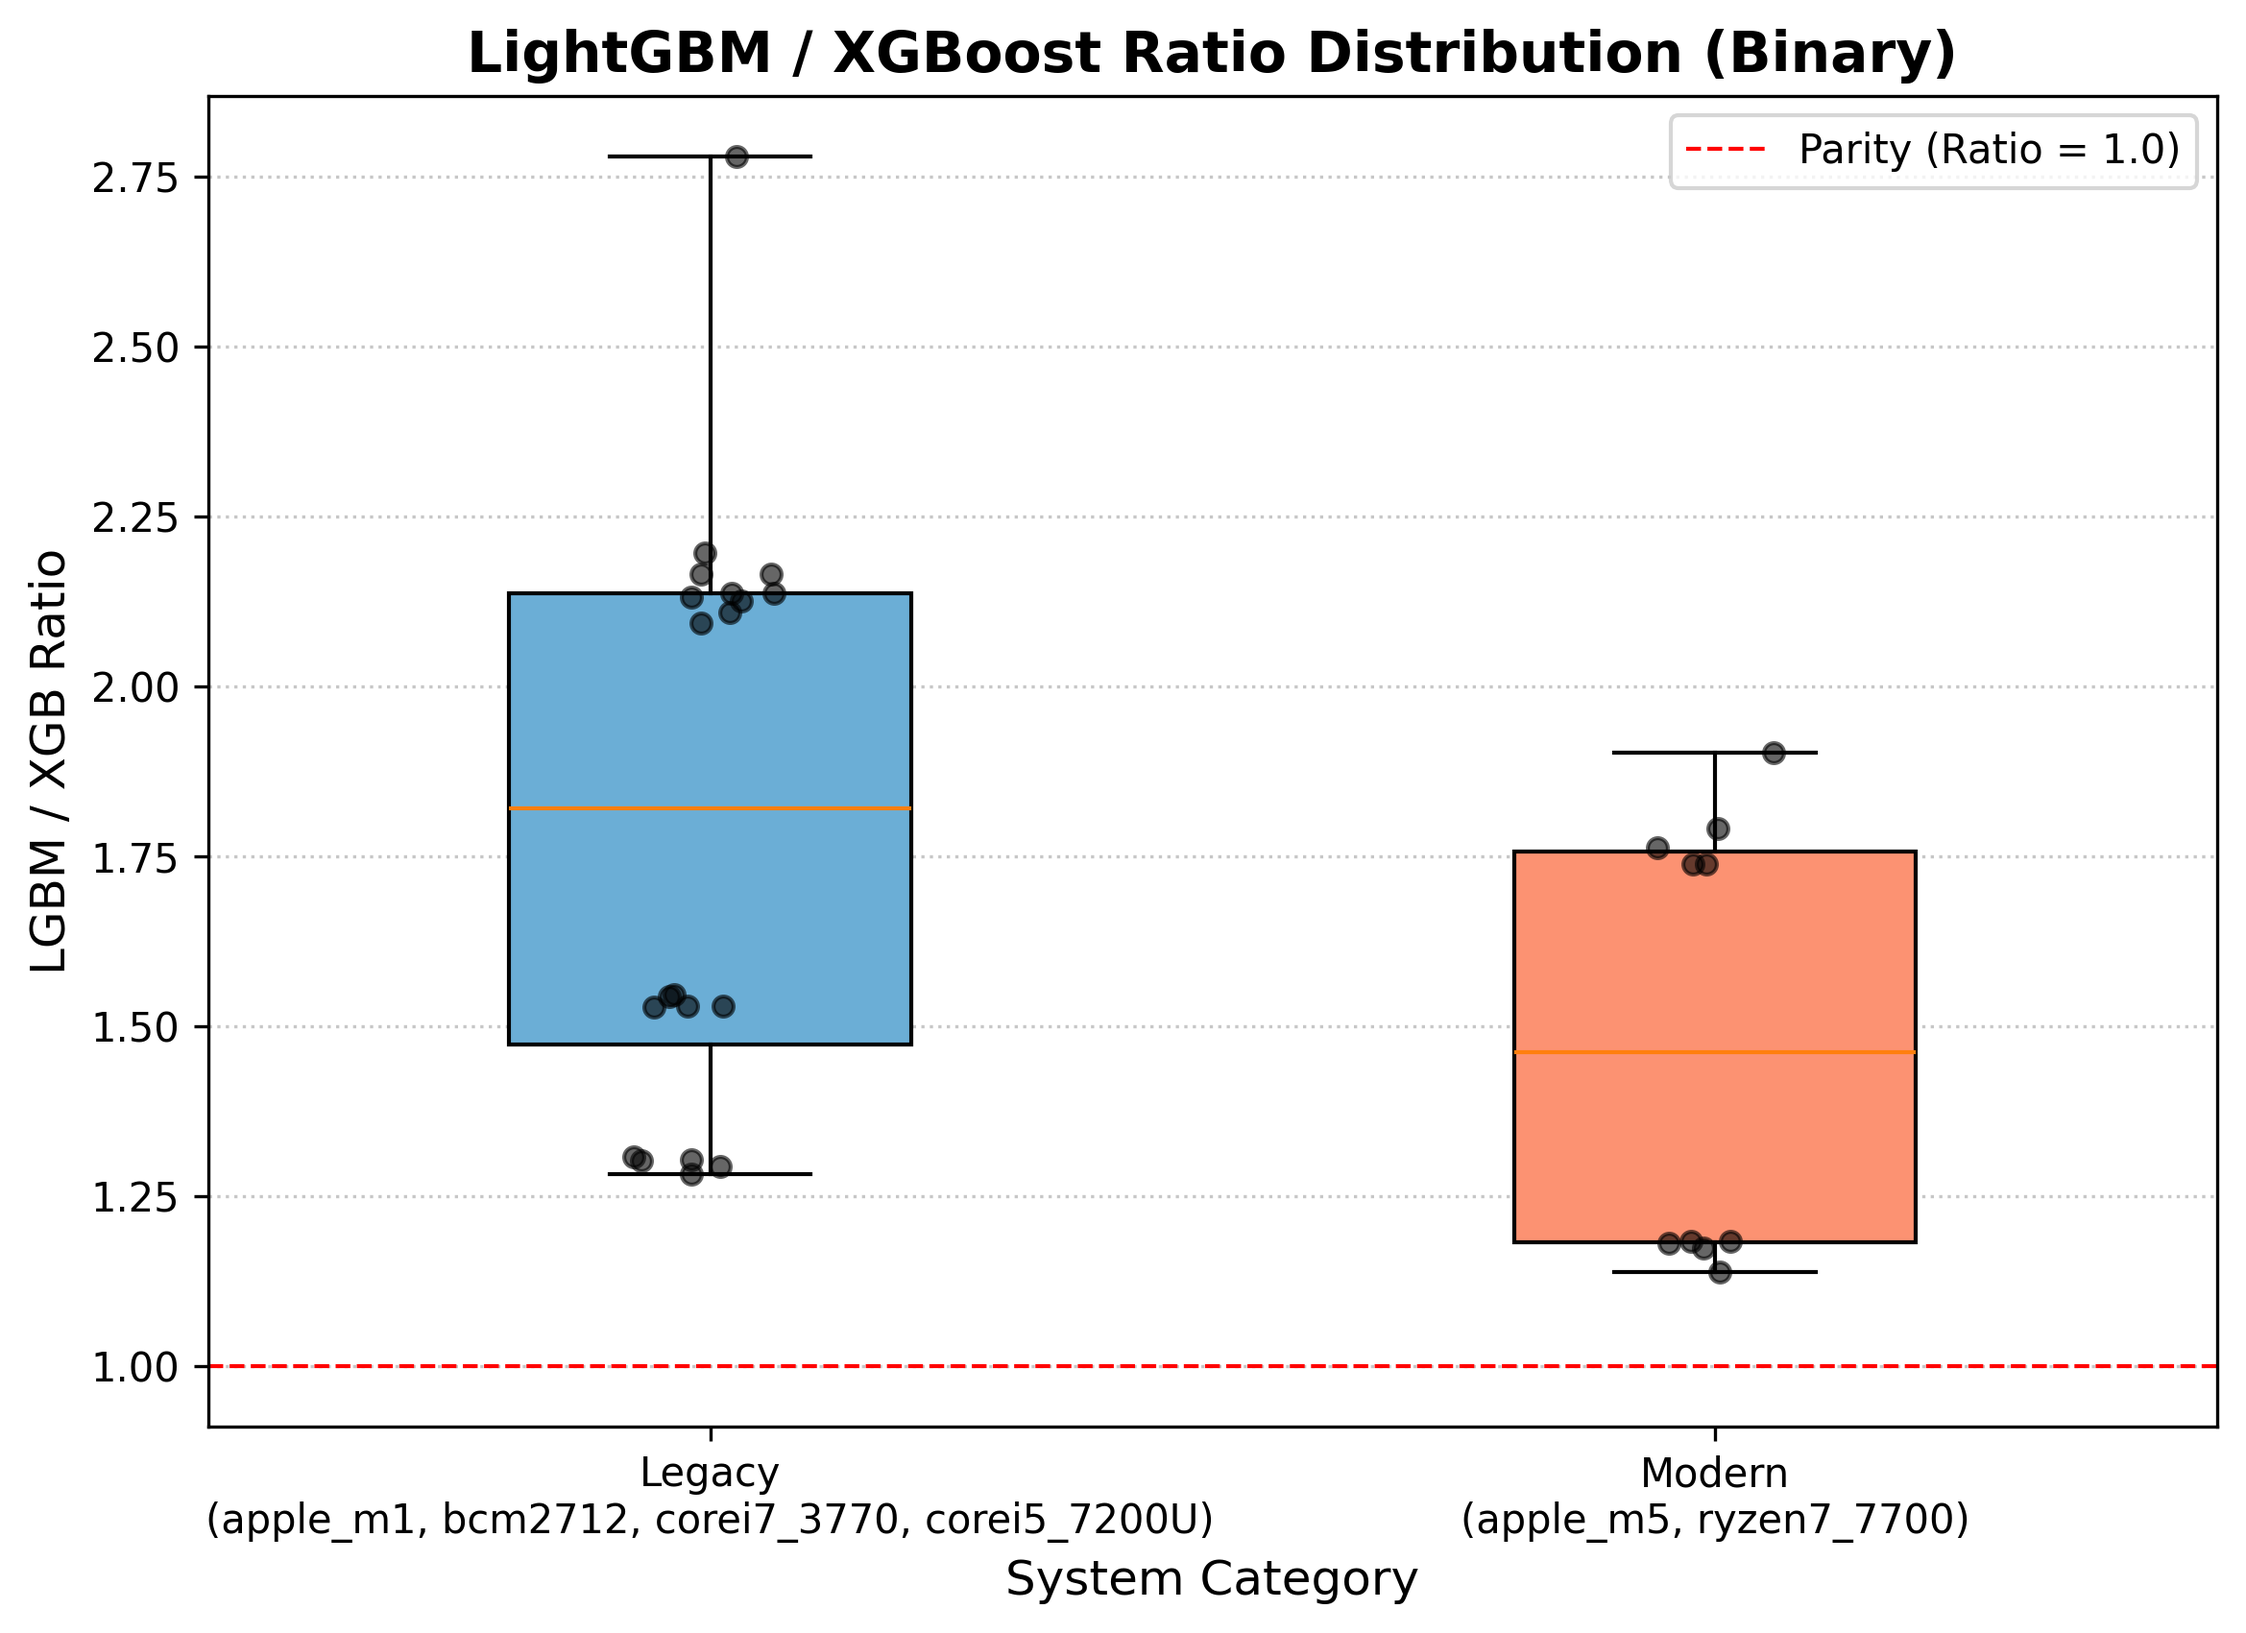
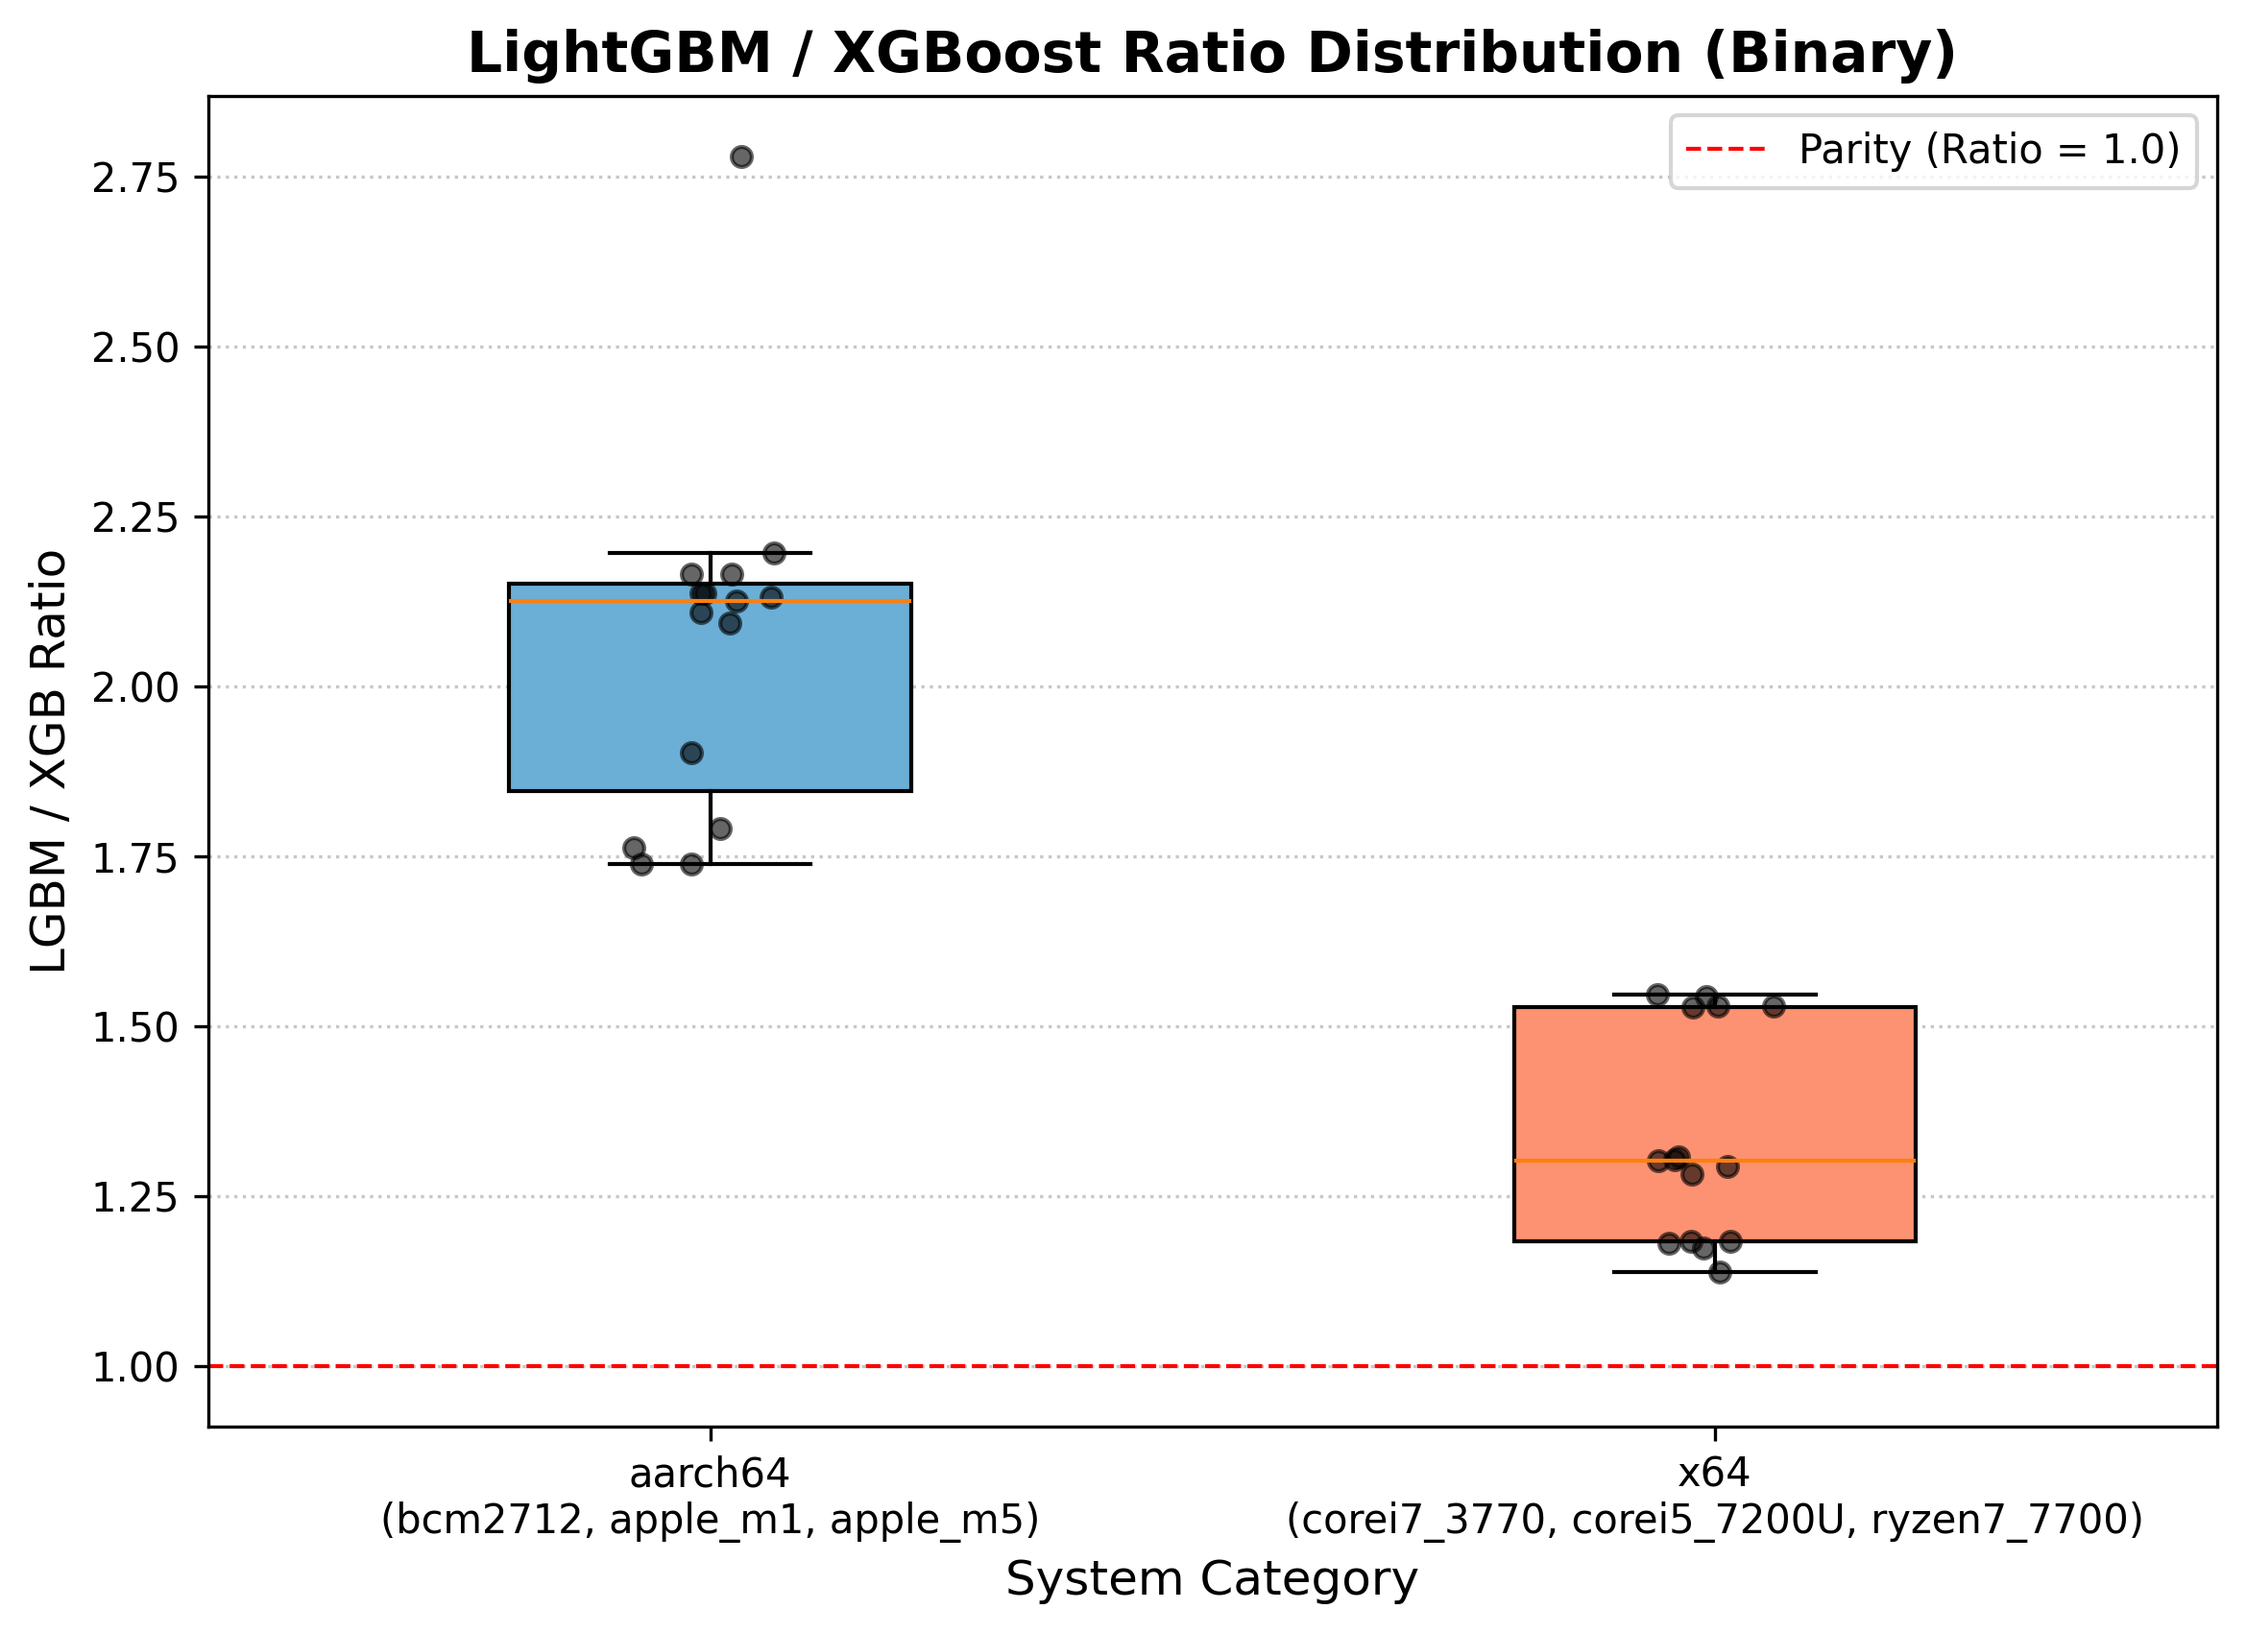
Update Mann-Whitney

diff --git a/scripts/run_mann-whitney.py b/scripts/run_mann-whitney.py
@@ -21,10 +21,10 @@ def load_ratios(systems: list[str], benchmark_dir: str, subtask: str) -> list[fl
     return ratios
 
 def save_chart(
-    legacy_ratios: list[float], 
-    modern_ratios: list[float], 
-    legacy_systems: list[str], 
-    modern_systems: list[str], 
+    aarch64_ratios: list[float], 
+    x64_ratios: list[float], 
+    aarch64_systems: list[str], 
+    x64_systems: list[str], 
     subtask: str, 
     output_dir: str
 ):
@@ -32,12 +32,12 @@ def save_chart(
 
     plt.figure(figsize=(9, 6))
 
-    legacy_label = "Legacy\n(" + ", ".join(legacy_systems) + ")"
-    modern_label = "Modern\n(" + ", ".join(modern_systems) + ")"
+    aarch64_label = "aarch64\n(" + ", ".join(aarch64_systems) + ")"
+    x64_label = "x64\n(" + ", ".join(x64_systems) + ")"
 
     box = plt.boxplot(
-        [legacy_ratios, modern_ratios],
-        labels=[legacy_label, modern_label],
+        [aarch64_ratios, x64_ratios],
+        labels=[aarch64_label, x64_label],
         patch_artist=True,
         widths=0.4,
         showfliers=False
@@ -48,7 +48,7 @@ def save_chart(
         patch.set_facecolor(color)
 
     np.random.seed(42)
-    for i, data in enumerate([legacy_ratios, modern_ratios], start=1):
+    for i, data in enumerate([aarch64_ratios, x64_ratios], start=1):
         x = np.random.normal(i, 0.04, size=len(data))
         plt.plot(x, data, "ro", color="black", alpha=0.6, markersize=5)
 
@@ -65,34 +65,34 @@ def save_chart(
     plt.close()
     print(f"Chart saved to: {chart_path}")
 
-def run_mann_whitney_analysis(benchmark_dir: str, legacy_systems: list[str], modern_systems: list[str]):
+def run_mann_whitney_analysis(benchmark_dir: str, aarch64_systems: list[str], x64_systems: list[str]):
     subtasks = ["binary", "multiclass"]
     charts_dir = os.path.join(benchmark_dir, "charts")
 
     for subtask in subtasks:
-        legacy_ratios = load_ratios(legacy_systems, benchmark_dir, subtask)
-        modern_ratios = load_ratios(modern_systems, benchmark_dir, subtask)
+        aarch64_ratios = load_ratios(aarch64_systems, benchmark_dir, subtask)
+        x64_ratios = load_ratios(x64_systems, benchmark_dir, subtask)
 
-        if not legacy_ratios or not modern_ratios:
-            print(f"Skipped {subtask}: not enough data (Legacy: {len(legacy_ratios)}, Modern: {len(modern_ratios)})")
+        if not aarch64_ratios or not x64_ratios:
+            print(f"Skipped {subtask}: not enough data (Legacy: {len(aarch64_ratios)}, Modern: {len(x64_ratios)})")
             continue
 
-        save_chart(legacy_ratios, modern_ratios, legacy_systems, modern_systems, subtask, charts_dir)
+        save_chart(aarch64_ratios, x64_ratios, aarch64_systems, x64_systems, subtask, charts_dir)
 
-        stat, p_val = stats.mannwhitneyu(legacy_ratios, modern_ratios, alternative="greater")
+        stat, p_val = stats.mannwhitneyu(aarch64_ratios, x64_ratios, alternative="greater")
 
-        n1 = len(legacy_ratios)
-        n2 = len(modern_ratios)
+        n1 = len(aarch64_ratios)
+        n2 = len(x64_ratios)
         
         r_rank_biserial = (2.0 * stat) / (n1 * n2) - 1.0 if (n1 * n2) > 0 else None
 
-        mean_legacy = float(pd.Series(legacy_ratios).mean())
-        std_legacy = float(pd.Series(legacy_ratios).std())
-        median_legacy = float(pd.Series(legacy_ratios).median())
+        mean_aarch64 = float(pd.Series(aarch64_ratios).mean())
+        std_aarch64 = float(pd.Series(aarch64_ratios).std())
+        median_aarch64 = float(pd.Series(aarch64_ratios).median())
 
-        mean_modern = float(pd.Series(modern_ratios).mean())
-        std_modern = float(pd.Series(modern_ratios).std())
-        median_modern = float(pd.Series(modern_ratios).median())
+        mean_x64 = float(pd.Series(x64_ratios).mean())
+        std_x64 = float(pd.Series(x64_ratios).std())
+        median_x64 = float(pd.Series(x64_ratios).median())
 
         result_df = pd.DataFrame([{
             "subtask": subtask,
@@ -100,21 +100,21 @@ def run_mann_whitney_analysis(benchmark_dir: str, legacy_systems: list[str], mod
             "p_value": p_val,
             "statistically_significant_0_05": bool(p_val < 0.05),
             "rank_biserial_correlation": r_rank_biserial,
-            "n_legacy_samples": n1,
-            "n_modern_samples": n2,
-            "legacy_mean_ratio": mean_legacy,
-            "legacy_std_ratio": std_legacy,
-            "legacy_median_ratio": median_legacy,
-            "modern_mean_ratio": mean_modern,
-            "modern_std_ratio": std_modern,
-            "modern_median_ratio": median_modern,
-            "legacy_systems": ",".join(legacy_systems),
-            "modern_systems": ",".join(modern_systems)
+            "n_aarch64_samples": n1,
+            "n_x64_samples": n2,
+            "aarch64_mean_ratio": mean_aarch64,
+            "aarch64_std_ratio": std_aarch64,
+            "aarch64_median_ratio": median_aarch64,
+            "x64_mean_ratio": mean_x64,
+            "x64_std_ratio": std_x64,
+            "x64_median_ratio": median_x64,
+            "aarch64_systems": ",".join(aarch64_systems),
+            "x64_systems": ",".join(x64_systems)
         }])
 
         print(f"{subtask.upper()}:")
-        print(f"Legacy (n={n1}) Ratio Avg: {mean_legacy:.4f} ± {std_legacy:.4f} (Median: {median_legacy:.4f})")
-        print(f"Modern (n={n2}) Ratio Avg: {mean_modern:.4f} ± {std_modern:.4f} (Median: {median_modern:.4f})")
+        print(f"aarch64 (n={n1}) Ratio Avg: {mean_aarch64:.4f} ± {std_aarch64:.4f} (Median: {median_aarch64:.4f})")
+        print(f"x64 (n={n2}) Ratio Avg: {mean_x64:.4f} ± {std_x64:.4f} (Median: {median_x64:.4f})")
         print(f"Mann-Whitney U: {stat}, p-value: {p_val:.6e}, Rank-Biserial: {r_rank_biserial:.4f}\n")
 
         suffix = "_mc" if subtask == "multiclass" else ""
@@ -126,15 +126,15 @@ def run_mann_whitney_analysis(benchmark_dir: str, legacy_systems: list[str], mod
 def main():
     parser = argparse.ArgumentParser()
     parser.add_argument("--benchmark", default="benchmark")
-    parser.add_argument("--legacy", default="apple_m1,bcm2712,corei7-3770,corei5-7200U")
-    parser.add_argument("--modern", default="apple_m5,ryzen7_7700")
+    parser.add_argument("--x64", default=",corei7-3770,corei5-7200U,ryzen7_7700")
+    parser.add_argument("--aarch64", default="bcm2712,apple_m1,apple_m5")
 
     args = parser.parse_args()
 
-    legacy_systems = [s.strip() for s in args.legacy.split(",") if s.strip()]
-    modern_systems = [s.strip() for s in args.modern.split(",") if s.strip()]
+    aarch64_systems = [s.strip() for s in args.aarch64.split(",") if s.strip()]
+    x64_systems = [s.strip() for s in args.x64.split(",") if s.strip()]
 
-    run_mann_whitney_analysis(args.benchmark, legacy_systems, modern_systems)
+    run_mann_whitney_analysis(args.benchmark, aarch64_systems, x64_systems)
 
 if __name__ == "__main__":
     main()

diff --git a/README.md b/README.md
@@ -132,7 +132,7 @@ python scripts/quantize_model_mc.py --input_dir train_mc/models/mlp_mc --csv dat
 python scripts/compare_models_mc.py --outdir benchmark/sys1/multiclass --models-dir train_mc --models rf_mc lgbm_mc xgb_mc logreg_mc mlp_mc mlp_mc_int8 --benchmark --sample_size 10000
 
 # 9) Mann-Whitney lgbm/xgb
-python scripts/run_mann-whitney.py --benchmark benchmark --legacy apple_m1,bcm2712,corei7_3770,corei5_7200U --modern apple_m5,ryzen7_7700
+python scripts/run_mann-whitney.py --benchmark benchmark --aarch64 bcm2712,apple_m1,apple_m5 --x64 corei7_3770,corei5_7200U,ryzen7_7700
 ```
 
 ## Artifact layout
